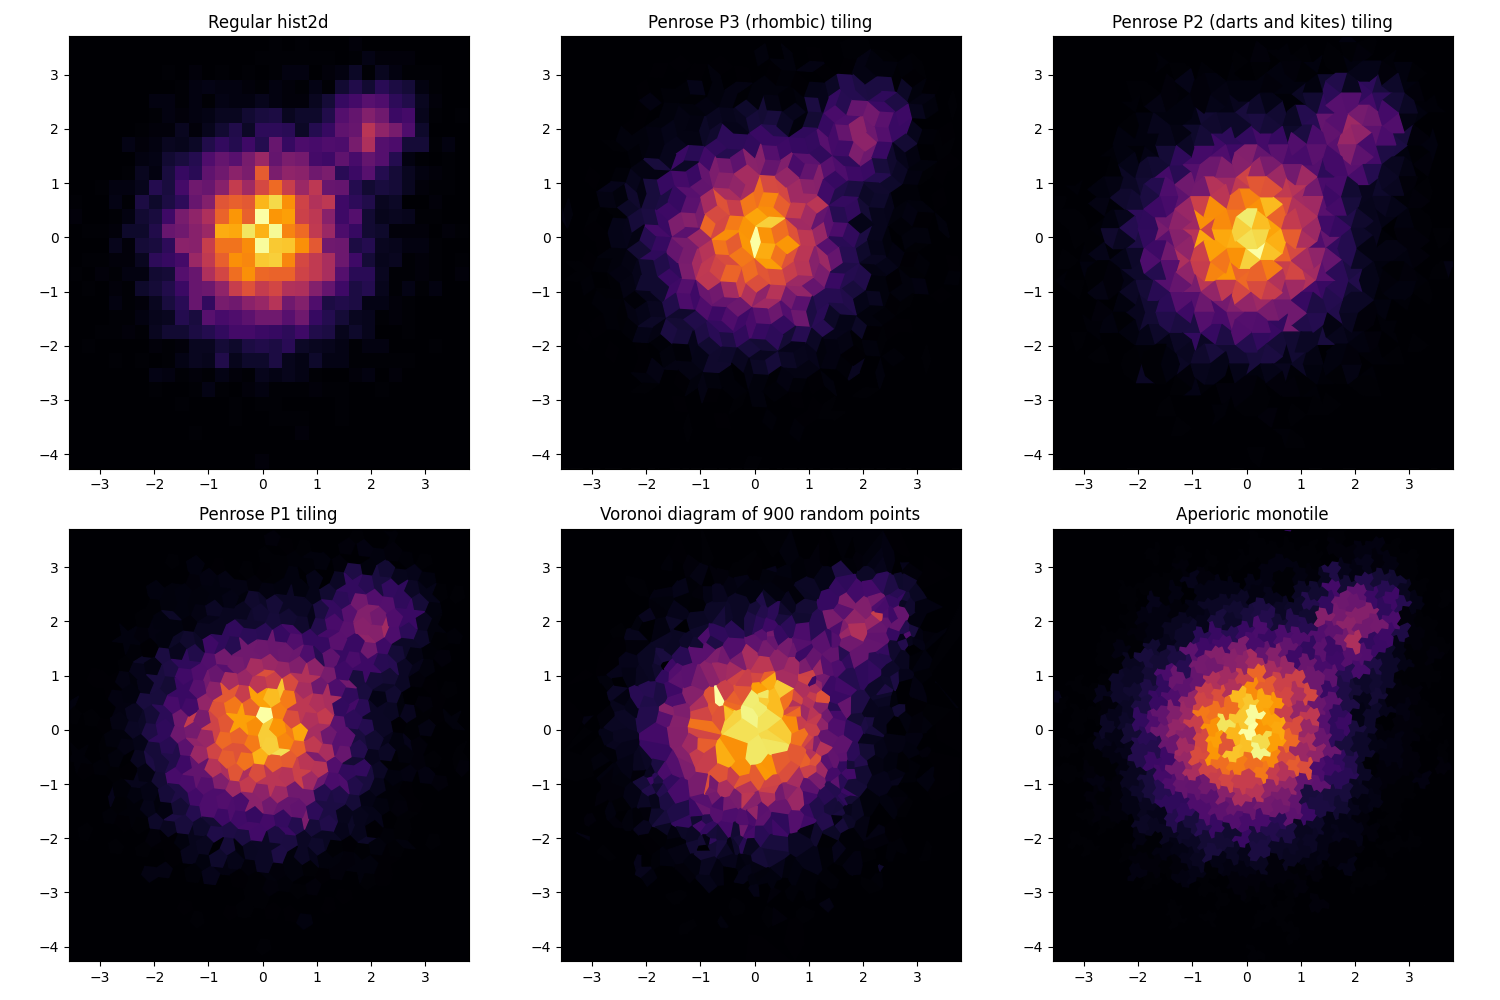
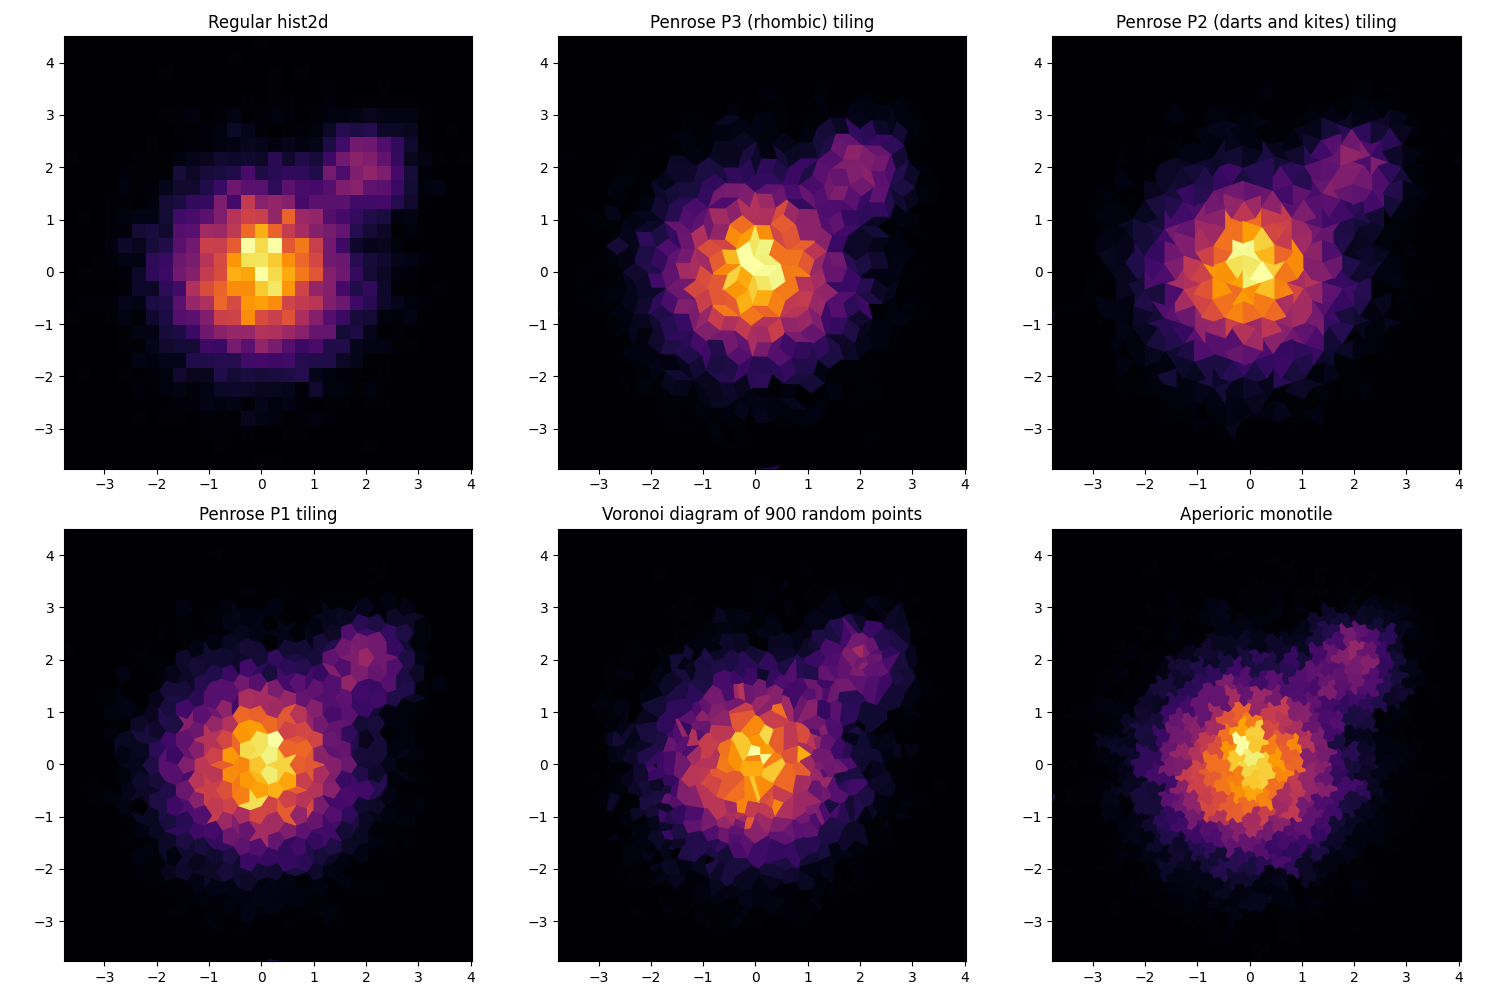
upd demo

diff --git a/poc.py b/poc.py
@@ -71,7 +71,7 @@ if __name__ == "__main__":
 
     fig, axes = plt.subplots(figsize=(15, 10), ncols=3, nrows=2)
     axes = cast(Sequence[Axes], axes.flatten())
-    np.random.seed(1312)
+    np.random.seed(161)
     sample_size = 10000
 
     gauss_1 = np.random.normal(loc=0, scale=1.0, size=(2, sample_size))
